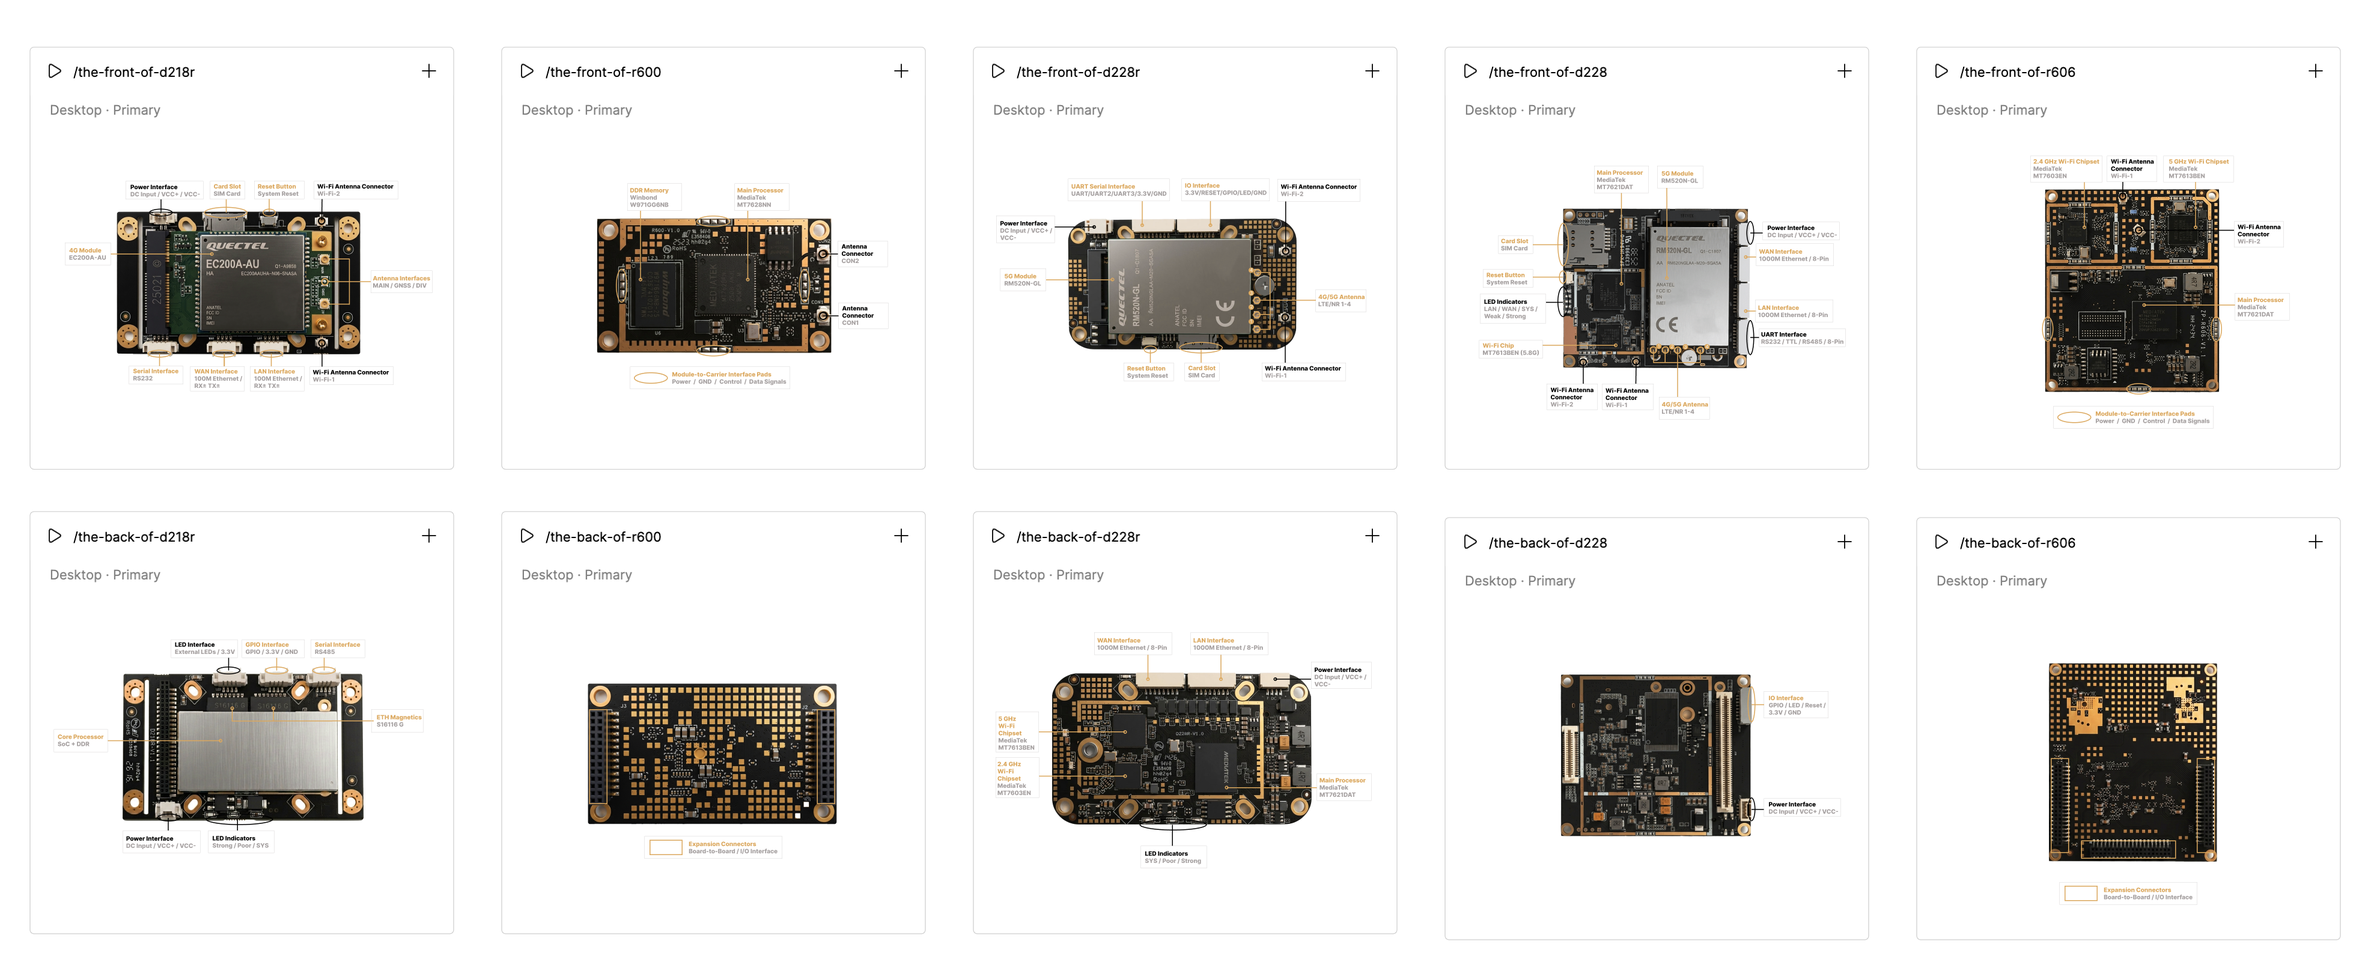
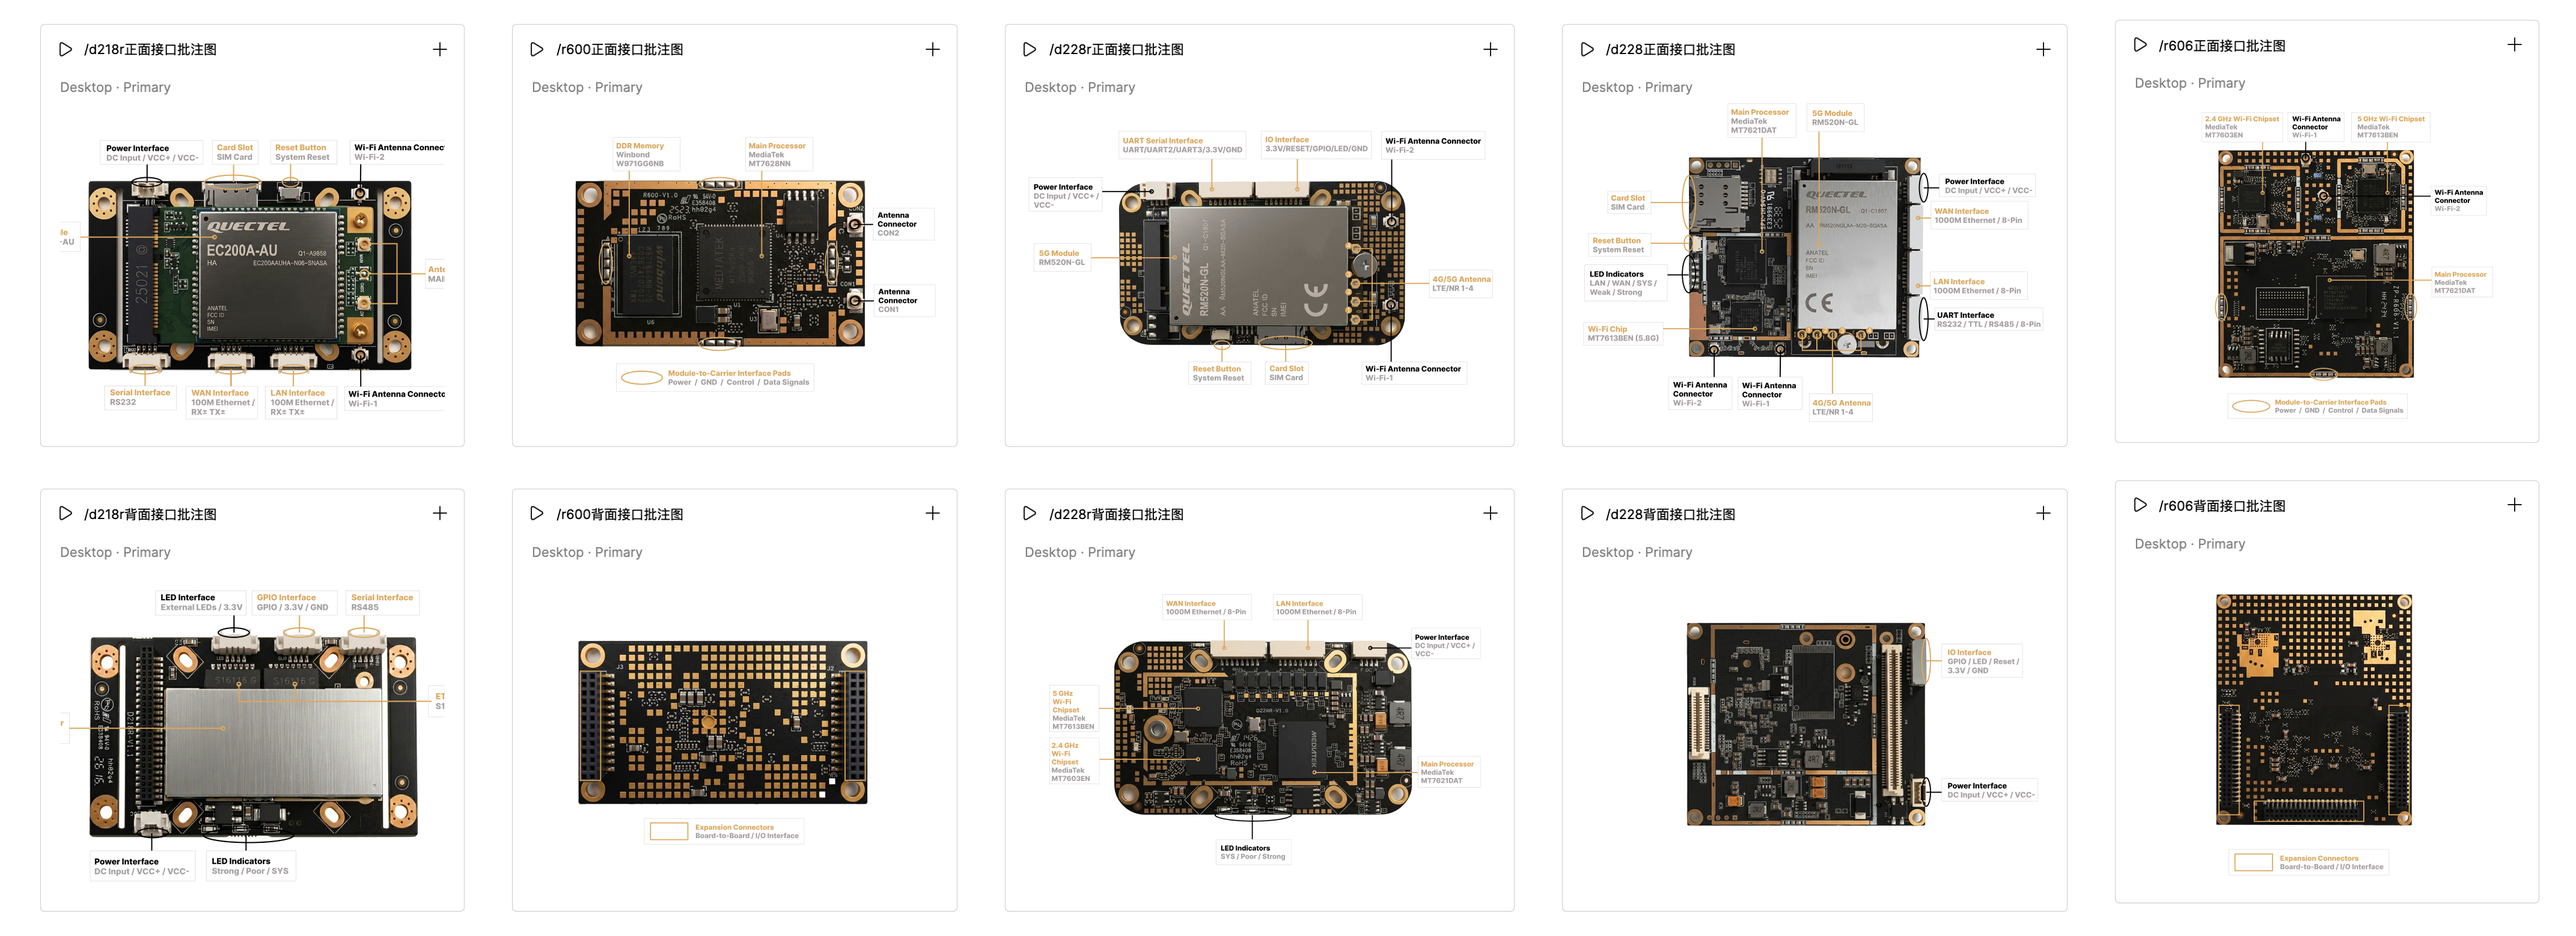
Update resources

diff --git a/doc/product/d218r/D218R_产品资料包.md b/doc/product/d218r/D218R_产品资料包.md
@@ -22,7 +22,7 @@
 - [模块接口批注概览图](../产品一览图/modules_interface_overview.png)
 
 <p align="center">
-  <img src="../产品一览图/modules_overview.png" alt="D218R 模块全局概览图" width="950">
+  <img src="../产品一览图/modules_overview.png" alt="模块全局概览图" width="950">
 </p>
 
 <p align="center">
@@ -30,7 +30,7 @@
 </p>
 
 <p align="center">
-  <img src="../产品一览图/modules_interface_overview.png" alt="D218R 模块接口批注概览图" width="950">
+  <img src="../产品一览图/modules_interface_overview.png" alt="模块接口批注概览图" width="950">
 </p>
 
 <p align="center">

diff --git a/doc/use/端口映射使用说明.md b/doc/use/端口映射使用说明.md
@@ -1,0 +1,2 @@
+# 端口映射使用说明
+
